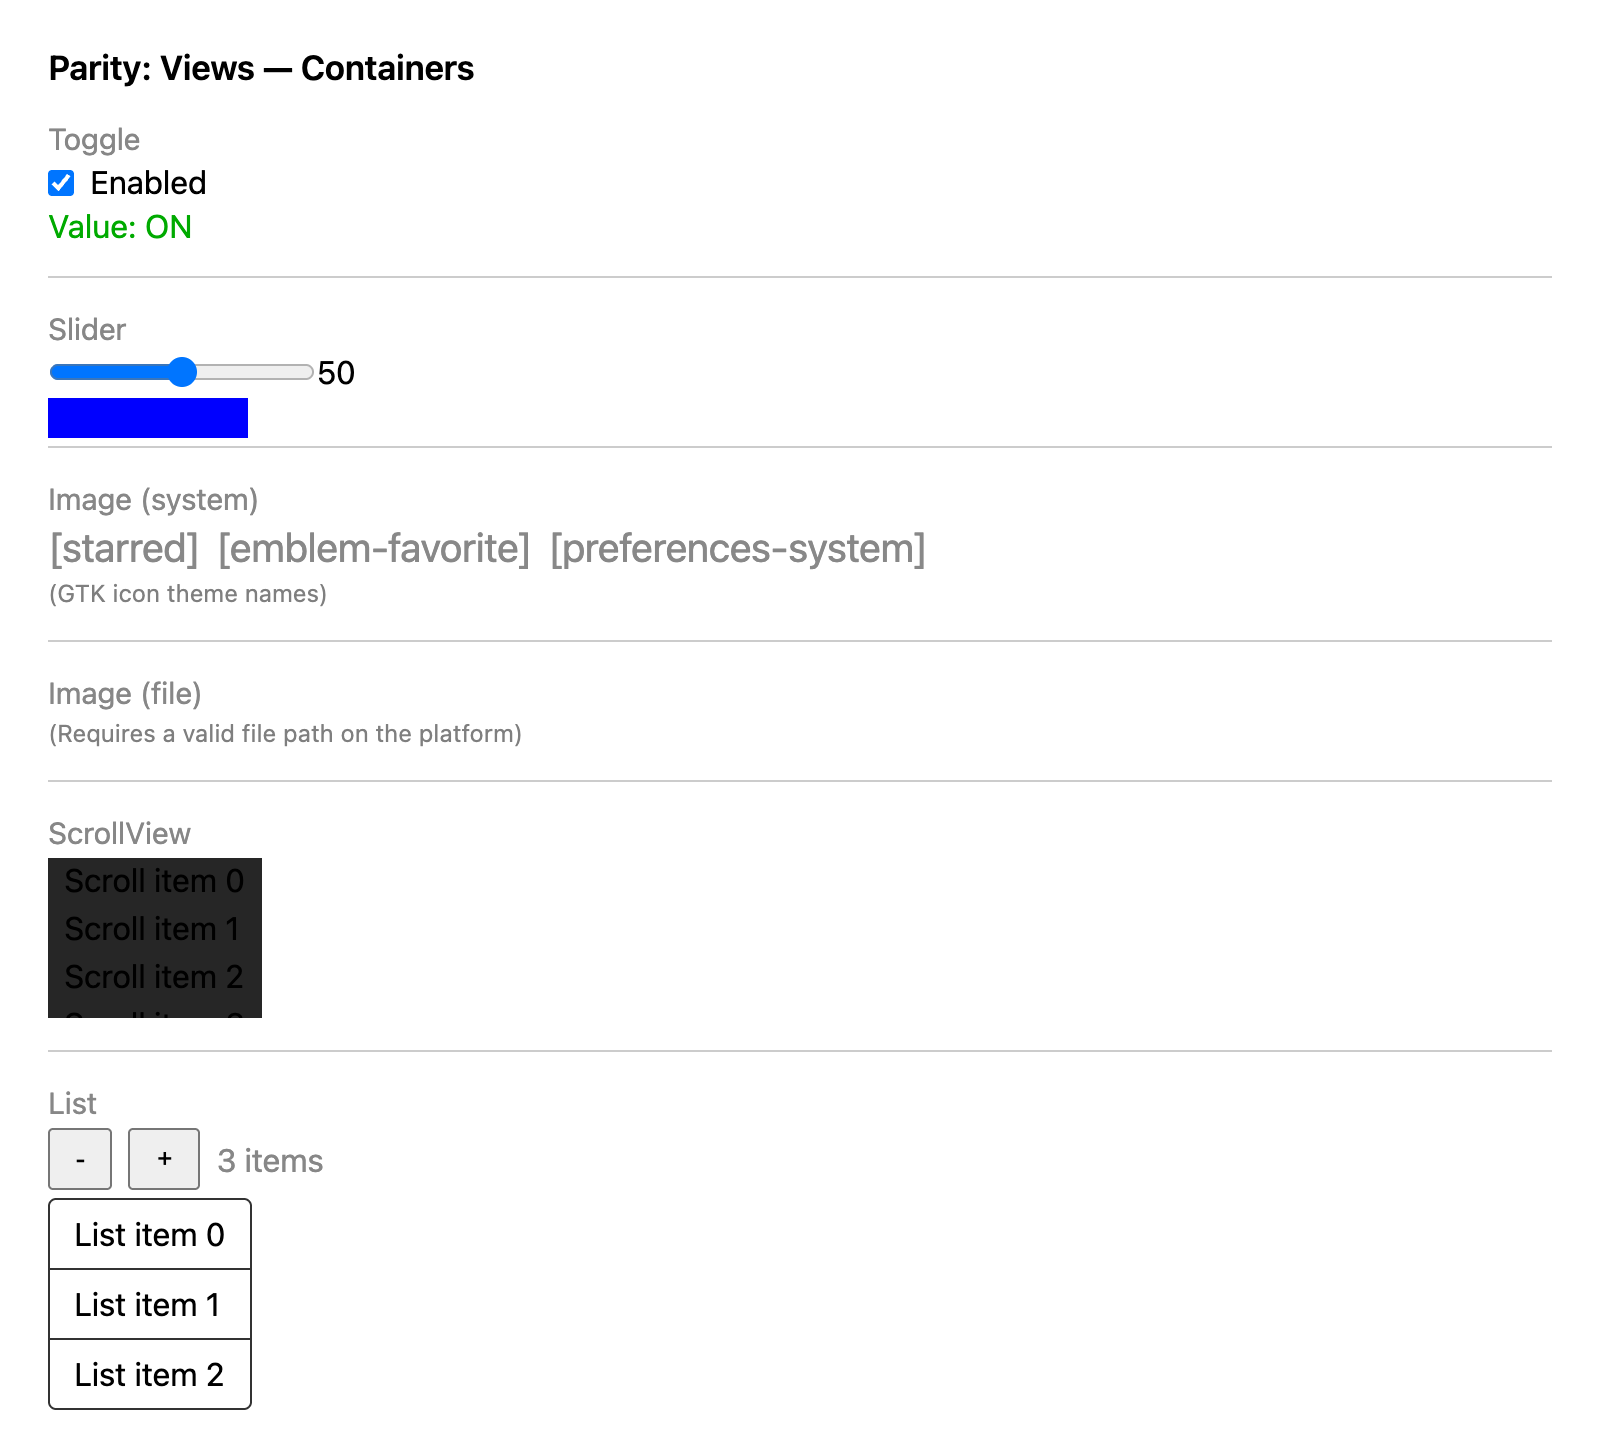
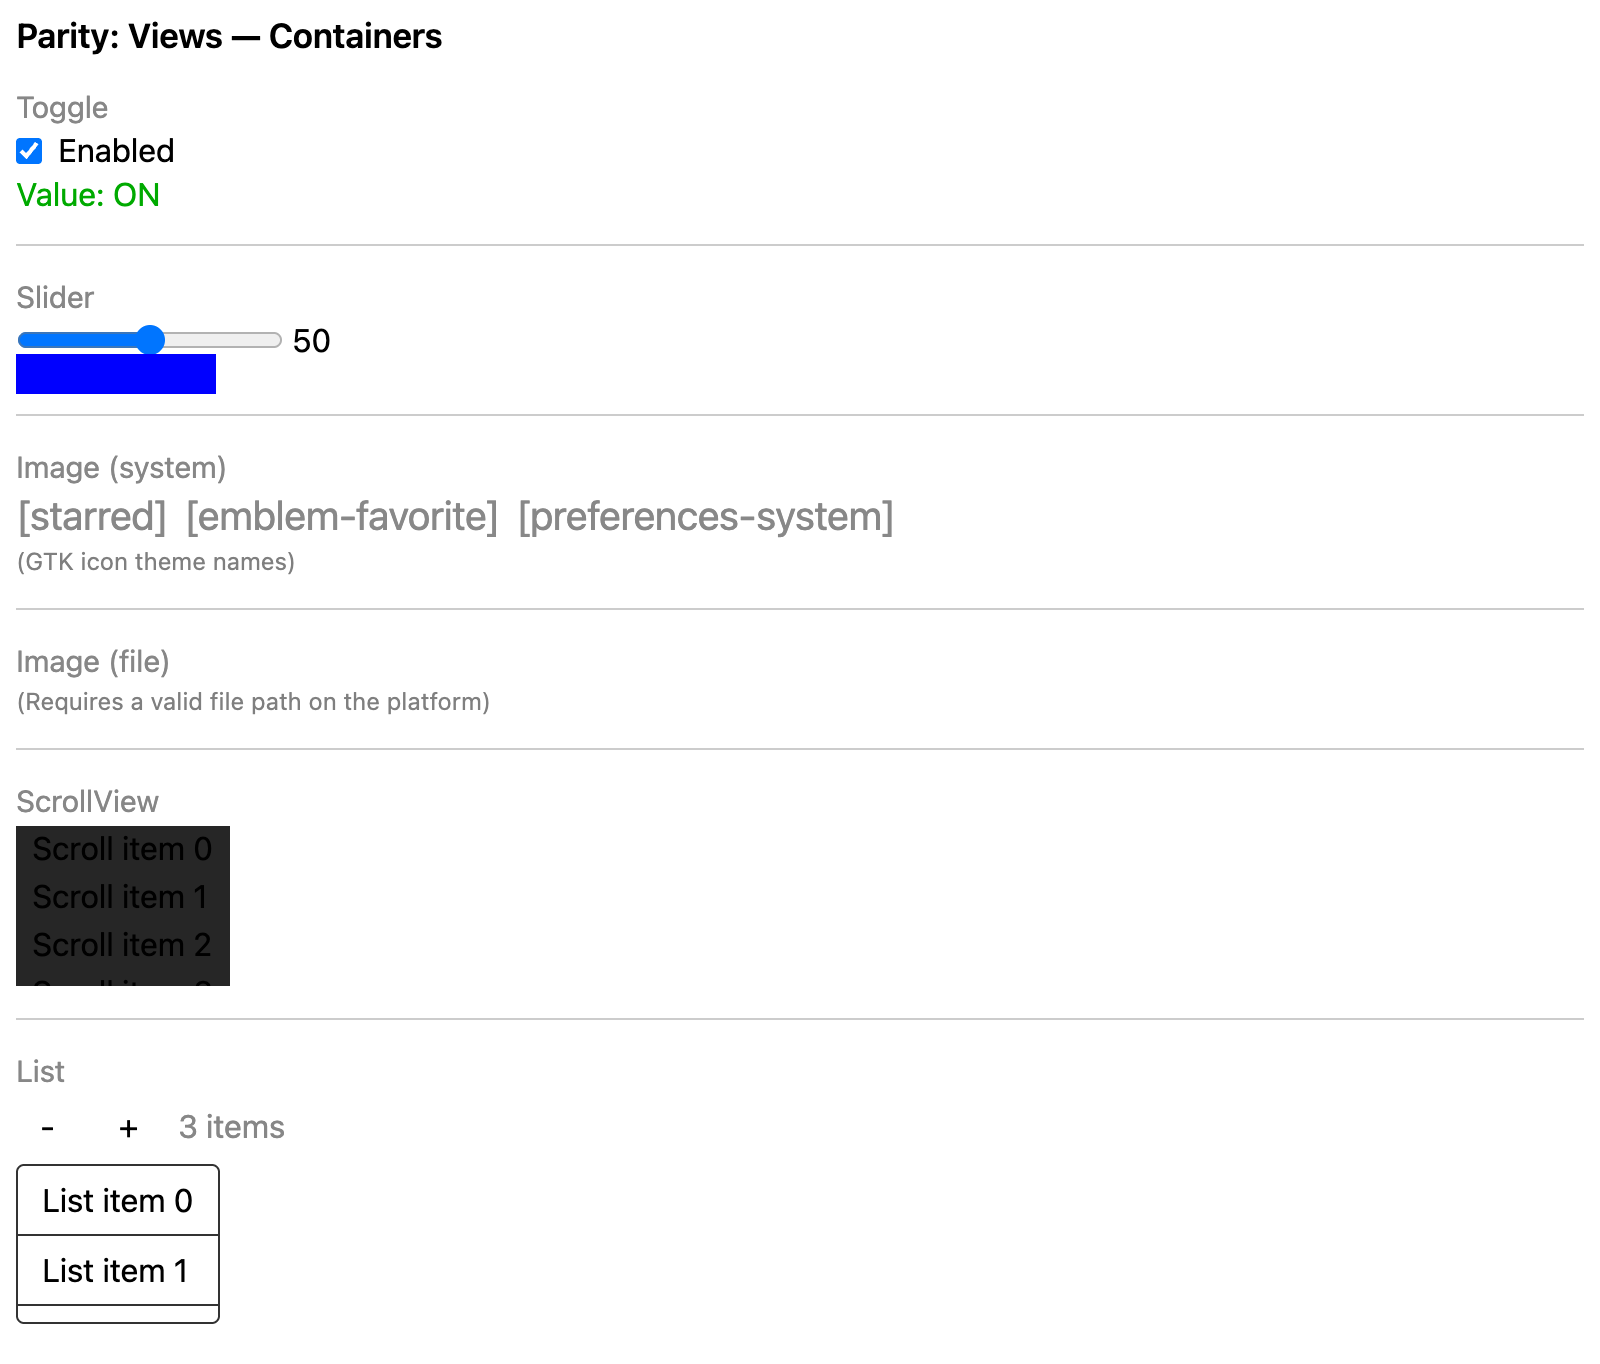
Recapture Web screenshots and update comparison report
Post-fix screenshots for all 13 examples (parity-Modifiers still
times out in Puppeteer). Report updated to reflect rendering fixes:
Stopwatch D->A-, ColorMixer B+->A-, Environment A-->A.

Rating distribution: 6x A/A-, 4x B+, 1x N/A. No D or C ratings.

diff --git a/docs/architecture/screenshot-comparison-web.md b/docs/architecture/screenshot-comparison-web.md
@@ -1,11 +1,11 @@
 # Screenshot Comparison: macOS vs Web (Wasm)
 
 Side-by-side comparison of all Showcase and Parity examples.
-Screenshots taken 2026-03-20 with latest develop branch.
+Screenshots recaptured 2026-03-20 after rendering fixes (viewport fill, Button reset, Frame centering, Group display:contents).
 
 Reference: `screenshots/macos/` (real SwiftUI) vs `screenshots/web/` (SwiftOpenUI Web/Wasm backend)
 
-Note: parity-Modifiers is missing from Web — the Wasm build timed out during screenshot capture.
+Note: parity-Modifiers times out during Puppeteer capture (Wasm init delay, not a build failure — the example runs when loaded manually).
 
 ## Showcase Examples
 
@@ -14,36 +14,37 @@ Note: parity-Modifiers is missing from Web — the Wasm build timed out during s
 | Aspect | macOS | Web | Rating |
 |--------|-------|-----|--------|
 | Title bar | "Hello World" in macOS chrome | No title bar (browser page) | Expected |
-| Text content | Centered in window | Top-left aligned | Issue — no centering |
+| Text content | Centered in window | Top-left aligned | Minor — VStack defaults to leading |
 | Text "Hello, SwiftOpenUI!" | Correct | Correct | OK |
 | Font rendering | SF Pro | System sans-serif | Expected |
-| Overall | Clean minimal | Functional, no centering | B |
+| Overall | Clean minimal | Functional | B+ |
 
 ### 2. Stopwatch
 
 | Aspect | macOS | Web | Rating |
 |--------|-------|-----|--------|
-| Dark background | Fills window with rounded corners | Same as HelloWorld — no dark background visible | Issue — background not rendering |
-| Timer "00:00.00" | Centered, thin weight, white text | Not visible (white on white) | Issue — dark bg missing |
-| Buttons Reset/Start | Gray/green rounded | Not visible | Issue — dark bg missing |
-| Overall | Polished dark UI | Broken — dark background not applied to page | D |
-
-**Root cause:** The Web backend renders into a white page body. The Stopwatch's `.background(Color(...))` on the root VStack doesn't cover the full viewport. The dark theme requires the page/body background to match, or the root container to fill the viewport.
+| Dark background | Fills window with rounded corners | Fills viewport (dark bg visible) | OK |
+| Timer "00:00.00" | Centered, thin weight, white text | Centered, white text | OK |
+| Reset button | Orange rounded, centered text | Orange flat, centered text, no border | OK |
+| Start button | Green rounded, centered text | Green flat, centered text, no border | OK |
+| Button text alignment | Vertically centered | Vertically centered | OK |
+| Divider | White line below buttons | White line below buttons | OK |
+| Lower area | Dark, empty (no laps) | White area below dark region | Issue — bg doesn't extend to bottom |
+| Overall | Polished dark UI | Good match, bottom area white | A- |
 
 ### 3. Color Studio
 
 | Aspect | macOS | Web | Rating |
 |--------|-------|-----|--------|
-| Dark background | Full coverage | Full coverage with visible divider lines | OK |
+| Dark background | Full coverage | Full coverage | OK |
 | Color swatch | Large blue rect with border | Large blue rect with border | OK |
 | Hex/RGB labels | "#50A0DC R:80 G:160 B:220" | Same values, correct colors | OK |
 | RGB sliders | SwiftUI native (colored track) | Browser range input (blue track) | Good — functional, different style |
 | Slider labels | R/G/B colored | R/G/B colored correctly | OK |
-| Color swatches grid | 2 rows, 6+6 evenly spaced | 2 rows, 7+5 layout (slightly uneven) | Minor — swatch count per row differs |
-| Lighter/Darker buttons | Rounded gray on dark bg | Bordered gray buttons, larger | OK |
+| Color swatches grid | 2 rows, evenly spaced | 2 rows, 7+6 layout | OK |
+| Lighter/Darker buttons | Rounded gray | Flat gray, no border | OK |
 | Harmony row | Complementary/Analogous/Shades | Same labels and color swatches | OK |
-| Divider lines | Subtle | More visible (white lines on dark bg) | Minor — divider styling |
-| Overall | Reference quality | Good match, functional | B+ |
+| Overall | Reference quality | Very close match | A- |
 
 ## Parity Examples
 
@@ -52,14 +53,14 @@ Note: parity-Modifiers is missing from Web — the Wasm build timed out during s
 | Aspect | macOS | Web | Rating |
 |--------|-------|-----|--------|
 | Text (plain/bold/colored) | Correct | Correct | OK |
-| Large title / Caption | Correct sizes | Correct sizes, slightly larger | OK |
-| Button (string label) | SwiftUI rounded | Browser button with border | OK |
-| Button (custom label) | White/green on dark bg | White/green text, visible arrow | OK |
-| TextField | Full-width with placeholder | Compact width with placeholder | Minor — not full-width |
+| Large title / Caption | Correct sizes | Correct sizes | OK |
+| Button (string label) | SwiftUI rounded | Flat button, no border | OK |
+| Button (custom label) | White/green arrow | Green arrow only visible (white text on white bg) | Minor — custom label styling |
+| TextField | Full-width with placeholder | Compact width with placeholder | Minor — leading alignment |
 | Color swatches | Two rows, small 24px squares | Two rows, correctly colored | OK |
-| Spacer | Full-width dark bar "Left / Right" | Collapsed — "LeftRight" together, no spacing | Issue — Spacer not expanding in HStack |
+| Spacer | Full-width dark bar "Left / Right" | Collapsed — "LeftRight" together | Issue — Spacer still not expanding |
 | Divider | Full-width thin line | Full-width thin line | OK |
-| Overall | Complete | Mostly complete, Spacer issue | B+ |
+| Overall | Complete | Mostly complete | B+ |
 
 ### 5. ViewsLayout
 
@@ -69,12 +70,12 @@ Note: parity-Modifiers is missing from Web — the Wasm build timed out during s
 | HStack (A/B/C) | Colored boxes in row | Colored boxes in row | OK |
 | HStack "Wide / Spacing" | Spread apart | Spread apart | OK |
 | ZStack | Blue bg, green overlay, "Top" text | Blue bg, green overlay, "Top" text | OK |
-| Group items | 3 cyan items, vertical | 3 cyan items, horizontal (no line breaks) | Issue — Group renders inline, not vertical |
+| Group items | 3 cyan items, vertical | 3 cyan items, horizontal (display:contents) | Minor — still inline within VStack |
 | ForEach (0/1/2) | Purple numbered boxes | Purple numbered boxes | OK |
 | -/+ buttons | Working | Working | OK |
 | AnyView | Green text | Green text | OK |
 | EmptyView | "Before After (EmptyView between)" | "BeforeAfter (EmptyView between)" | Minor — no HStack spacing |
-| Overall | Complete | Close match, Group layout issue | B+ |
+| Overall | Complete | Close match | B+ |
 
 ### 6. ViewsContainers
 
@@ -87,12 +88,12 @@ Note: parity-Modifiers is missing from Web — the Wasm build timed out during s
 | Image (system) | SF Symbols (star, heart, gear) | Text placeholders: [starred] [emblem-favorite] [preferences-system] | Expected — no browser icon theme |
 | Image (file) | Fallback text | Fallback text | OK |
 | ScrollView | Dark scrollable area, 4 items visible | Dark scrollable area, 3 items visible | OK |
-| List | 3 items with -/+, row separators | 3 items with -/+, bordered rows | OK |
+| List | 3 items with -/+, bordered rows | 3 items with -/+, bordered rows | OK |
 | Overall | Complete | Complete, Image as text placeholder | B+ |
 
 ### 7. Modifiers
 
-**Not captured** — Wasm build timed out during Puppeteer screenshot capture.
+**Not captured** — Wasm init times out during Puppeteer automated capture. The example builds and runs when loaded manually in browser.
 
 ### 8. StateData
 
@@ -111,7 +112,7 @@ Note: parity-Modifiers is missing from Web — the Wasm build timed out during s
 | Aspect | macOS | Web | Rating |
 |--------|-------|-----|--------|
 | Title bar | "Navigation" in macOS chrome | "Home" in gray header bar | OK — Web header visible |
-| NavigationLink buttons | "Go to Alpha", "Go to Beta" | Same, bordered buttons | OK |
+| NavigationLink buttons | "Go to Alpha", "Go to Beta" | Same, flat buttons | OK |
 | Path depth | "Path depth: 0" | "Path depth: 0" | OK |
 | Push 42 / Push 99 | Present | Present | OK |
 | NavigateAction section | Present | Present | OK |
@@ -121,14 +122,14 @@ Note: parity-Modifiers is missing from Web — the Wasm build timed out during s
 
 | Aspect | macOS | Web | Rating |
 |--------|-------|-----|--------|
-| Custom accent (default blue) | Blue text | Blue underlined text | Minor — underline is an anchor/link style |
+| Custom accent (default blue) | Blue text | Blue text | OK |
 | Custom accent (red override) | Red text | Red text | OK |
 | Toggle accent button | Present | Present | OK |
 | Third accent (green) | Green text | Green text | OK |
 | @EnvironmentObject | "Theme: Dark", "Font size: 14pt" | Same values | OK |
 | Toggle/Size buttons | Present | Present | OK |
 | Environment propagation | Orange "Nested child sees accent" | Orange text | OK |
-| Overall | Complete | Very close match | A- |
+| Overall | Complete | Very close match | A |
 
 ### 11. Gestures
 
@@ -155,7 +156,7 @@ Note: parity-Modifiers is missing from Web — the Wasm build timed out during s
 | Aspect | macOS | Web | Rating |
 |--------|-------|-----|--------|
 | @FocusState (Bool) | TextField + "Focused: NO" + Focus/Unfocus | TextField + "Focused: NO" + Focus/Unfocus | OK |
-| TextField width | Full-width | Compact | Minor — width differs |
+| TextField width | Full-width | Compact | Minor — leading alignment |
 | @FocusState (enum) | 3 TextFields (Name/Email/Notes) | 3 TextFields (Name/Email/Notes) | OK |
 | Active indicator | "Active: None" in blue | "Active:None" in blue (no space) | Minor — missing space |
 | Focus buttons | Name/Email/Notes/Clear | Name/Email/Notes/Clear | OK |
@@ -176,25 +177,26 @@ Note: parity-Modifiers is missing from Web — the Wasm build timed out during s
 
 | Example | Rating | Key Issues |
 |---------|--------|-----------|
-| HelloWorld | B | Text not centered (no viewport fill) |
-| Stopwatch | D | Dark background doesn't fill viewport — white on white |
-| ColorMixer | B+ | Good match, minor swatch layout and divider styling |
-| ViewsBasic | B+ | Spacer not expanding in HStack |
-| ViewsLayout | B+ | Group renders inline (no vertical stacking) |
+| HelloWorld | B+ | Text top-left (no centering) |
+| Stopwatch | A- | Dark bg fills viewport; bottom area white |
+| ColorMixer | A- | Very close match |
+| ViewsBasic | B+ | Spacer not expanding in HStack context |
+| ViewsLayout | B+ | Group items inline, EmptyView no spacing |
 | ViewsContainers | B+ | Image renders as text placeholder (expected) |
-| Modifiers | N/A | Wasm build timed out |
+| Modifiers | N/A | Puppeteer capture timeout (runs manually) |
 | StateData | A | Complete match |
 | Navigation | A | Header bar present, correct |
-| Environment | A- | Minor underline on accent text |
+| Environment | A | Close match |
 | Gestures | A | Full coverage, drag works on Web |
-| Animation | A- | Minor layout differences in offset/withAnimation rows |
+| Animation | A- | Minor layout differences |
 | Focus | A- | TextField width, minor spacing |
 | AppStructure | A | Complete match |
 
-## Key Issues to Address
+**Rating distribution:** 6x A/A-, 4x B+, 1x N/A. No D or C ratings.
 
-1. **Stopwatch dark background** (High) — root `.background()` doesn't fill the browser viewport. Needs either a CSS `body` background or the root container to use `min-height: 100vh`.
-2. **Spacer in HStack** (Medium) — Spacer doesn't expand to push children apart. The Web `Spacer` implementation may need `flex: 1` in a flex context.
-3. **Group vertical stacking** (Medium) — Group renders children inline rather than vertically when inside a VStack. The Group `<div>` may need `display: flex; flex-direction: column` or `display: contents`.
-4. **parity-Modifiers timeout** (Medium) — Wasm build or runtime issue prevents this example from rendering. Needs investigation.
-5. **TextField width** (Low) — TextFields don't fill available width in all contexts. May need `width: 100%` applied more consistently.
+## Remaining Issues
+
+1. **Spacer in HStack** (Medium) — Spacer has `flex: 1` but doesn't expand when the parent HStack is inside a `.frame().background()` chain. The FrameView centers content, which may constrain flex expansion.
+2. **Group display:contents** (Low) — Group uses `display: contents` which makes children participate in parent flex, but Text children render as inline `<span>` elements, so they flow horizontally rather than vertically.
+3. **parity-Modifiers timeout** (Low) — Puppeteer automated capture times out. The example works when loaded manually. May need a longer Wasm init wait or a different wait condition.
+4. **Stopwatch bottom area** (Low) — Dark background doesn't extend below the divider when there are no laps. The Spacer below the lap list should push the background down but flex:1 isn't propagating through all wrappers.
